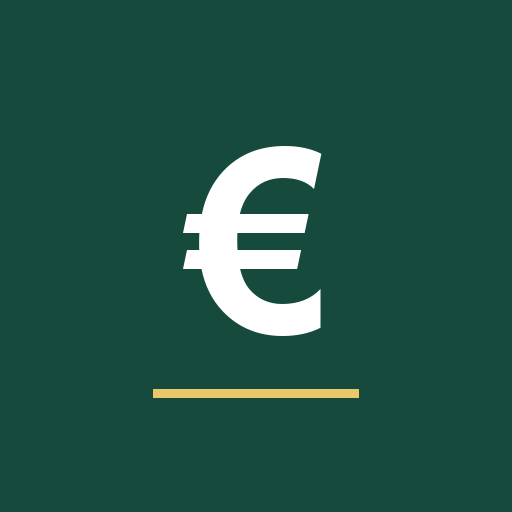
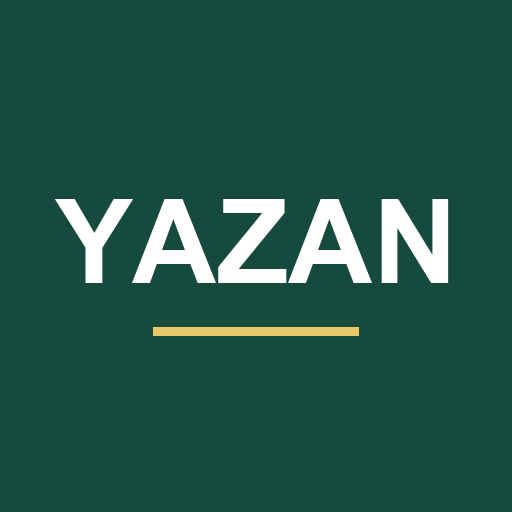
أيقونة YAZAN

Changed region(s): [[0.25, 0.2812, 0.875, 0.6562], [0.0938, 0.375, 0.25, 0.5625], [0.2812, 0.75, 0.7188, 0.7812]]

diff --git a/index.html b/index.html
@@ -7,7 +7,7 @@
 <meta name="robots" content="noindex, nofollow">
 <meta name="theme-color" content="#164a3d">
 <meta name="apple-mobile-web-app-capable" content="yes">
-<meta name="apple-mobile-web-app-title" content="Kasse">
+<meta name="apple-mobile-web-app-title" content="YAZAN">
 <link rel="manifest" href="manifest.webmanifest">
 <link rel="icon" href="icons/icon-192.png">
 <link rel="apple-touch-icon" href="icons/apple-touch-icon.png">
